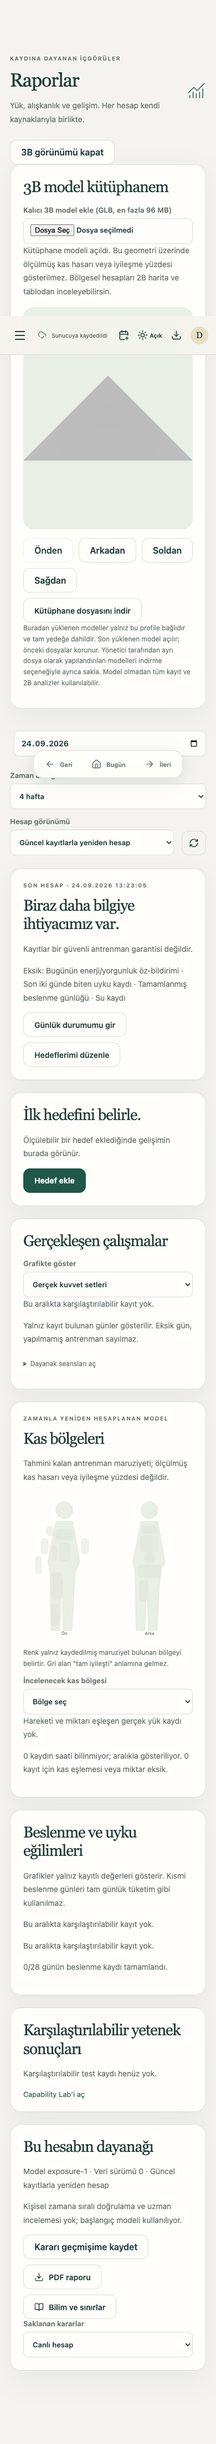
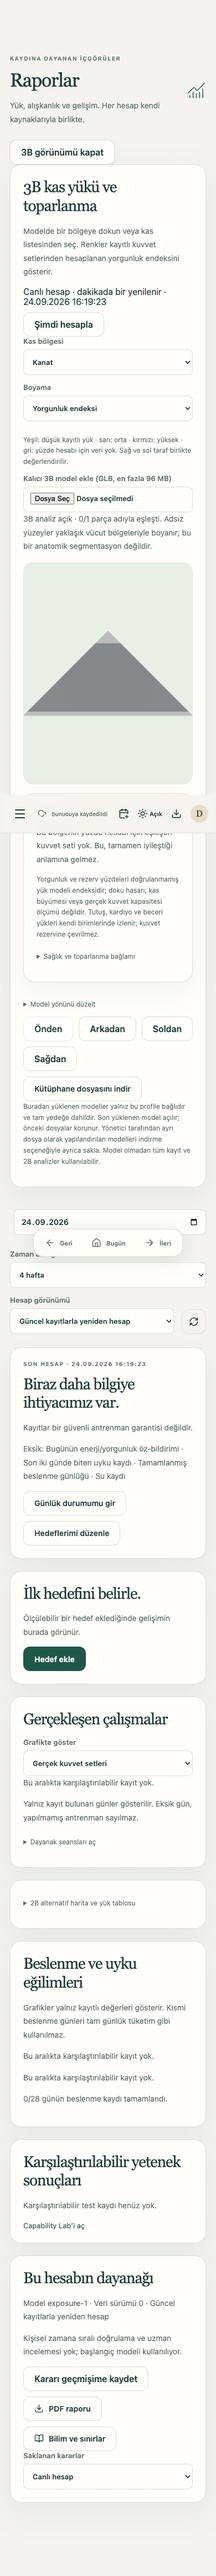
Record complete recovery regression results and pending desktop publish

diff --git a/docs/evidence/stage-9/RECOVERY_REVIEW.md b/docs/evidence/stage-9/RECOVERY_REVIEW.md
@@ -14,8 +14,13 @@ Context literature: [systematic review of exercise-induced muscle damage markers
 - `regional-recovery`: 11 science tests PASS, including clock progression, repeated load, source links, missing effort/time, future/skipped exclusion and no false non-strength conversion.
 - `recovery-mongo`: 4 targeted tests PASS against local synthetic Mongo replica set, including existing GLB owner/upload behavior.
 - Frontend: 12 tests PASS; TypeScript/build and ESLint PASS; Python Ruff PASS.
-- `recovery-browser-v4`: PASS, Chrome mobile viewport 390×844. Synthetic named triangle + pure-engine synthetic workout fixture. Shader compilation, raycast selection, unknown region, changed canvas pixels, 60-second clock refresh, no extra GLB download, orientation controls. Personal GLB/accounts not accessed. This does not prove rendering performance of the user's actual 80 MB geometry or physical-phone behavior.
+- `recovery-browser-final`: PASS (material-name mapping and instancing transforms included), Chrome mobile viewport 390×844. Synthetic named triangle + pure-engine synthetic workout fixture. Shader compilation, raycast selection, unknown region, changed canvas pixels, 60-second clock refresh, no extra GLB download, orientation controls. Personal GLB/accounts not accessed. This does not prove rendering performance of the user's actual 80 MB geometry or physical-phone behavior.
 - Report regression expands the intentionally collapsed 2D alternative before retaining all previous source→metric, delete, immutable snapshot, mobile and axe assertions.
+
+- `recovery-api-final`: all 63 API tests PASS at source commit 9856435.
+- `recovery-reports`: actual synthetic set creation/deletion, immutable snapshot, mobile layout and axe PASS.
+- `recovery-model-regression`: existing GLB upload/reload/camera/broken-file isolation PASS.
+- Commit 9856435 prepared locally. GitHub Desktop reports Mac locked; user asked to unlock. No push, CI or Render publication claimed yet.
 
 ## Failed attempts retained
 - Initial pure/API suite inside sandbox: first four tests passed, then local PostgreSQL TCP denied; rerun with authorized localhost access passed (no assertion changed).

diff --git a/STATUS.md b/STATUS.md
@@ -1,6 +1,6 @@
 # 3B bölgesel toparlanma güncellemesi — 24 Eylül 2026
 
-Birleşik 3B yük/endeks boyaması, kas seçimi, kaynak setler, 24/48 saat tahmini ve dakikalık yenileme uygulandı. Sentetik science 11, Mongo hedefli 4, istemci 12 test ve WebGL tarayıcı kontrolü PASS. Yayın/CI doğrulaması bekleniyor; bu bölüm henüz canlı başarı iddiası değildir. Yeni hesaplar biyolojik ölçüm değil açıklanmış varsayımlardır. Şema/hesap/medya göçü yok; MongoDB ve ücretsiz Render korunuyor. Ayrıntı `docs/evidence/stage-9/RECOVERY_REVIEW.md`.
+Birleşik 3B yük/endeks boyaması, kas seçimi, kaynak setler, 24/48 saat tahmini ve dakikalık yenileme uygulandı. Tüm sentetik API paketi 63 PASS; Mongo hedefli 4, istemci 12 test; WebGL, mevcut GLB yükleme/yeniden açma ve rapor/axe tarayıcı kontrolleri PASS. Kaynak commit 9856435. Mac kilitli olduğu için GitHub Desktop gönderimi bekliyor; yeni sürüm henüz GitHub/Render üzerinde yayınlanmadı. CI ve canlı doğrulama yayın sonrası yapılacak. Yeni hesaplar biyolojik ölçüm değil açıklanmış varsayımlardır. Şema/hesap/medya göçü yok; MongoDB ve ücretsiz Render korunuyor. Ayrıntı `docs/evidence/stage-9/RECOVERY_REVIEW.md`.
 
 # Son yayın doğrulaması — 24 Eylül 2026
 
